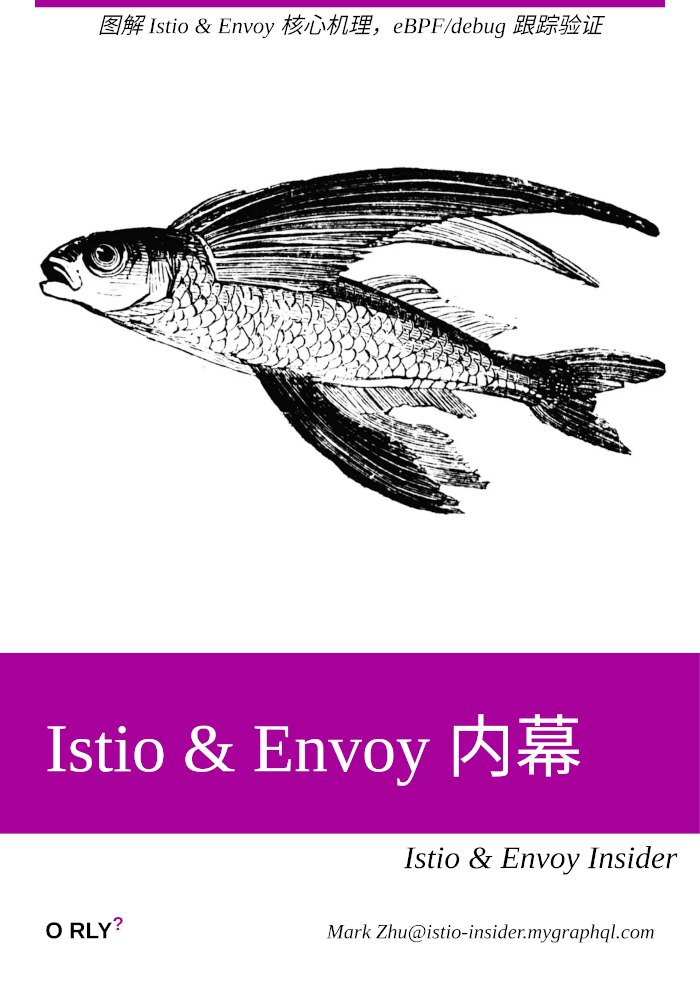
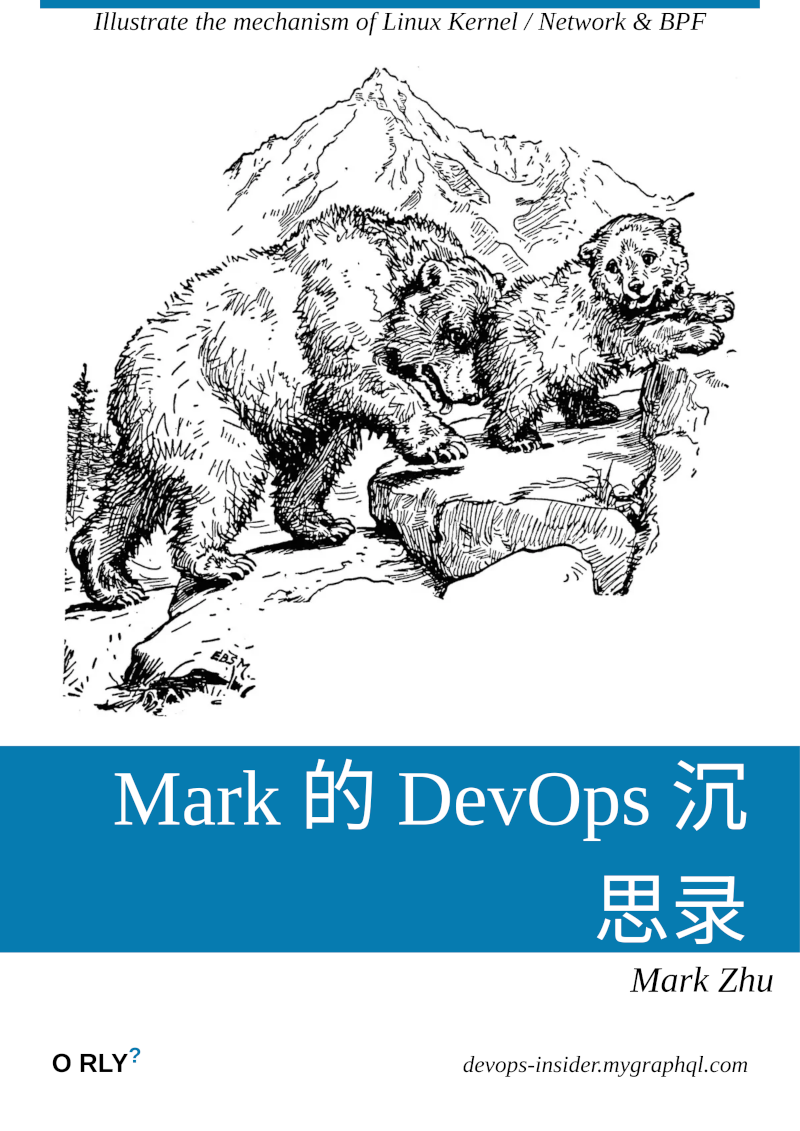
init

diff --git a/design/design.md b/design/design.md
@@ -4,10 +4,10 @@ https://.github.io/ORlyGenerator/
 https://arthurbeaulieu.github.io/ORlyGenerator/
 
 ```
-图解 Istio & Envoy 核心机理，eBPF/debug 跟踪验证
+Illustrate the mechanism of Linux Kernel / Network & BPF
 Mark 的 DevOps 沉思录
-Istio & Envoy Insider
-Mark Zhu@devops-insider.mygraphql.com
+Mark Zhu
+devops-insider.mygraphql.com
 ```
 
 
